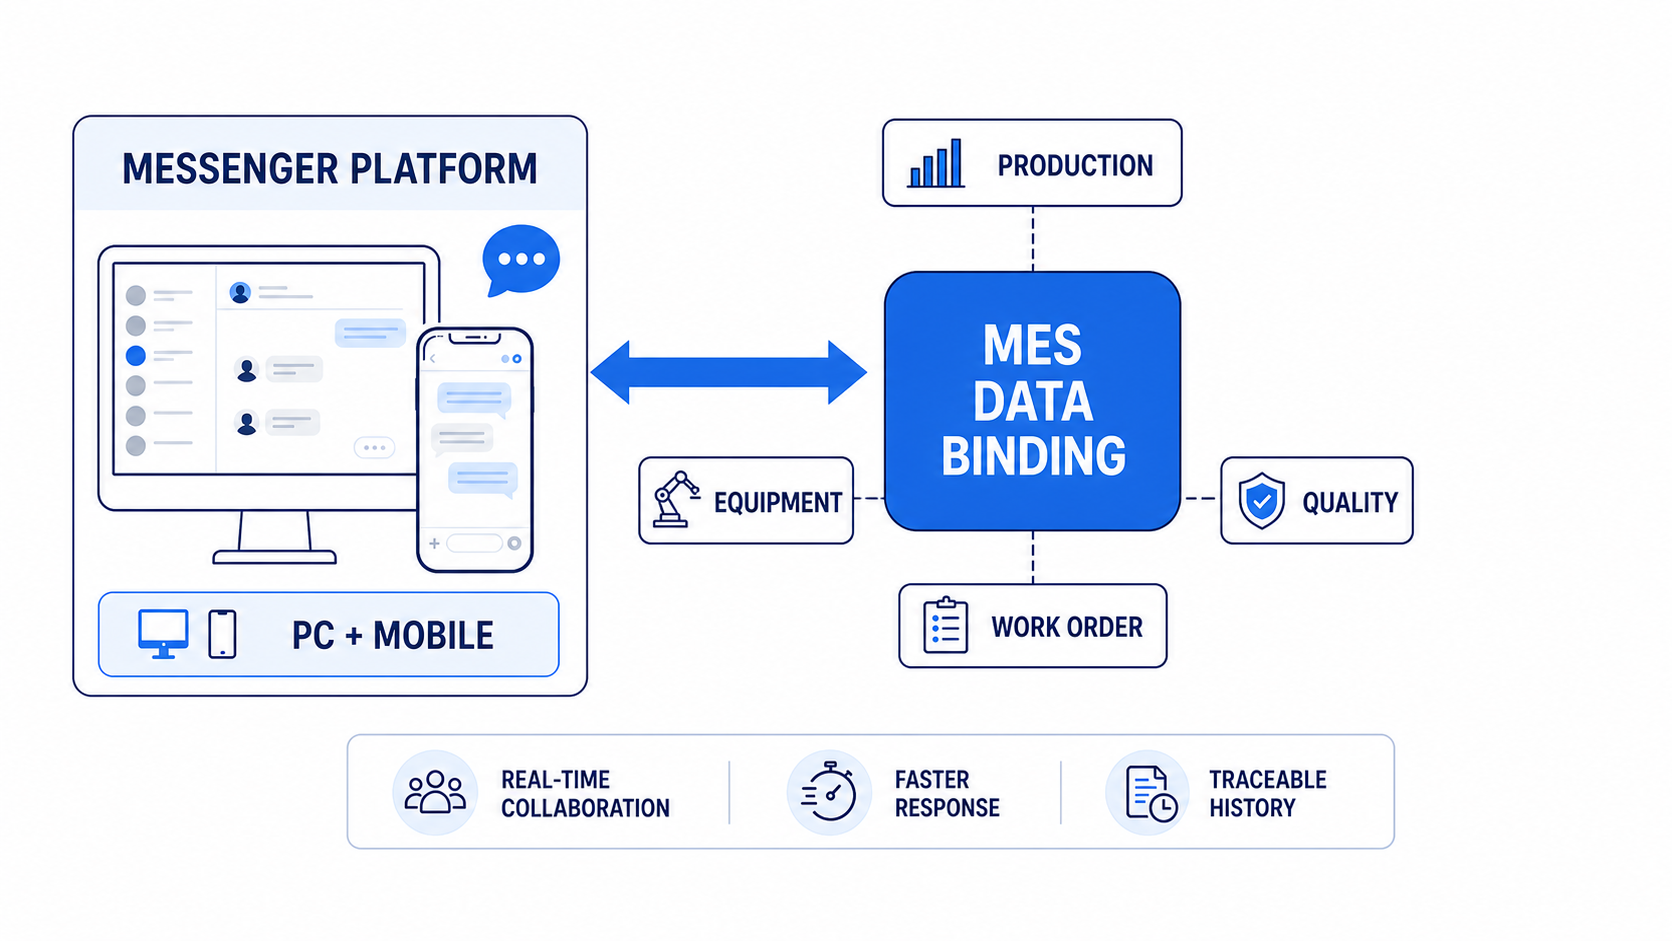
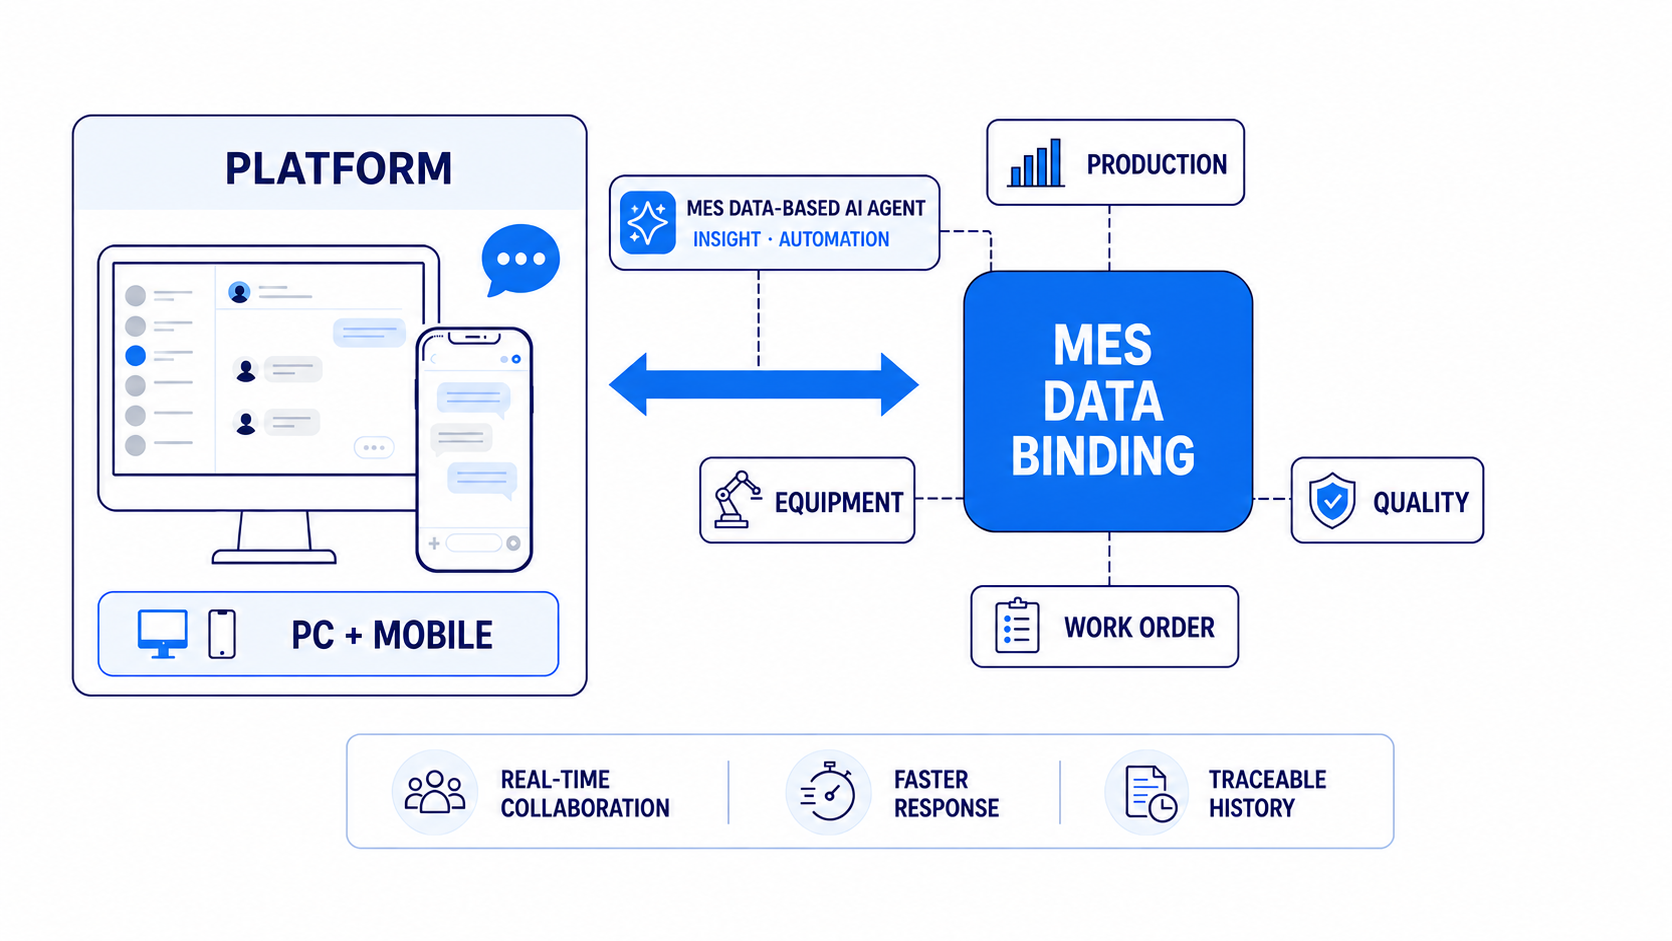
8 image

diff --git a/interactive-roadmap-report.html b/interactive-roadmap-report.html
@@ -1524,7 +1524,7 @@
           <div class="eyebrow">BUSINESS ENABLEMENT</div>
           <h1>MES Data와 Messenger Platform의 연결</h1>
           <div class="title-rule"></div>
-          <p class="subtitle">생산 현장의 데이터를 대화와 업무 액션으로 연결해, 필요한 사람이 필요한 순간에 대응할 수 있도록 합니다.</p>
+          <p class="subtitle">MES Data를 바인딩하고, 플랫폼 위에 MES Data 기반 AI Agent까지 확장할 수 있습니다.</p>
           <div class="synergy-visual">
             <img src="assets/slide8.png" alt="PC와 Mobile Messenger Platform이 MES Data와 바인딩되어 업무 시너지를 만드는 다이어그램" />
           </div>
